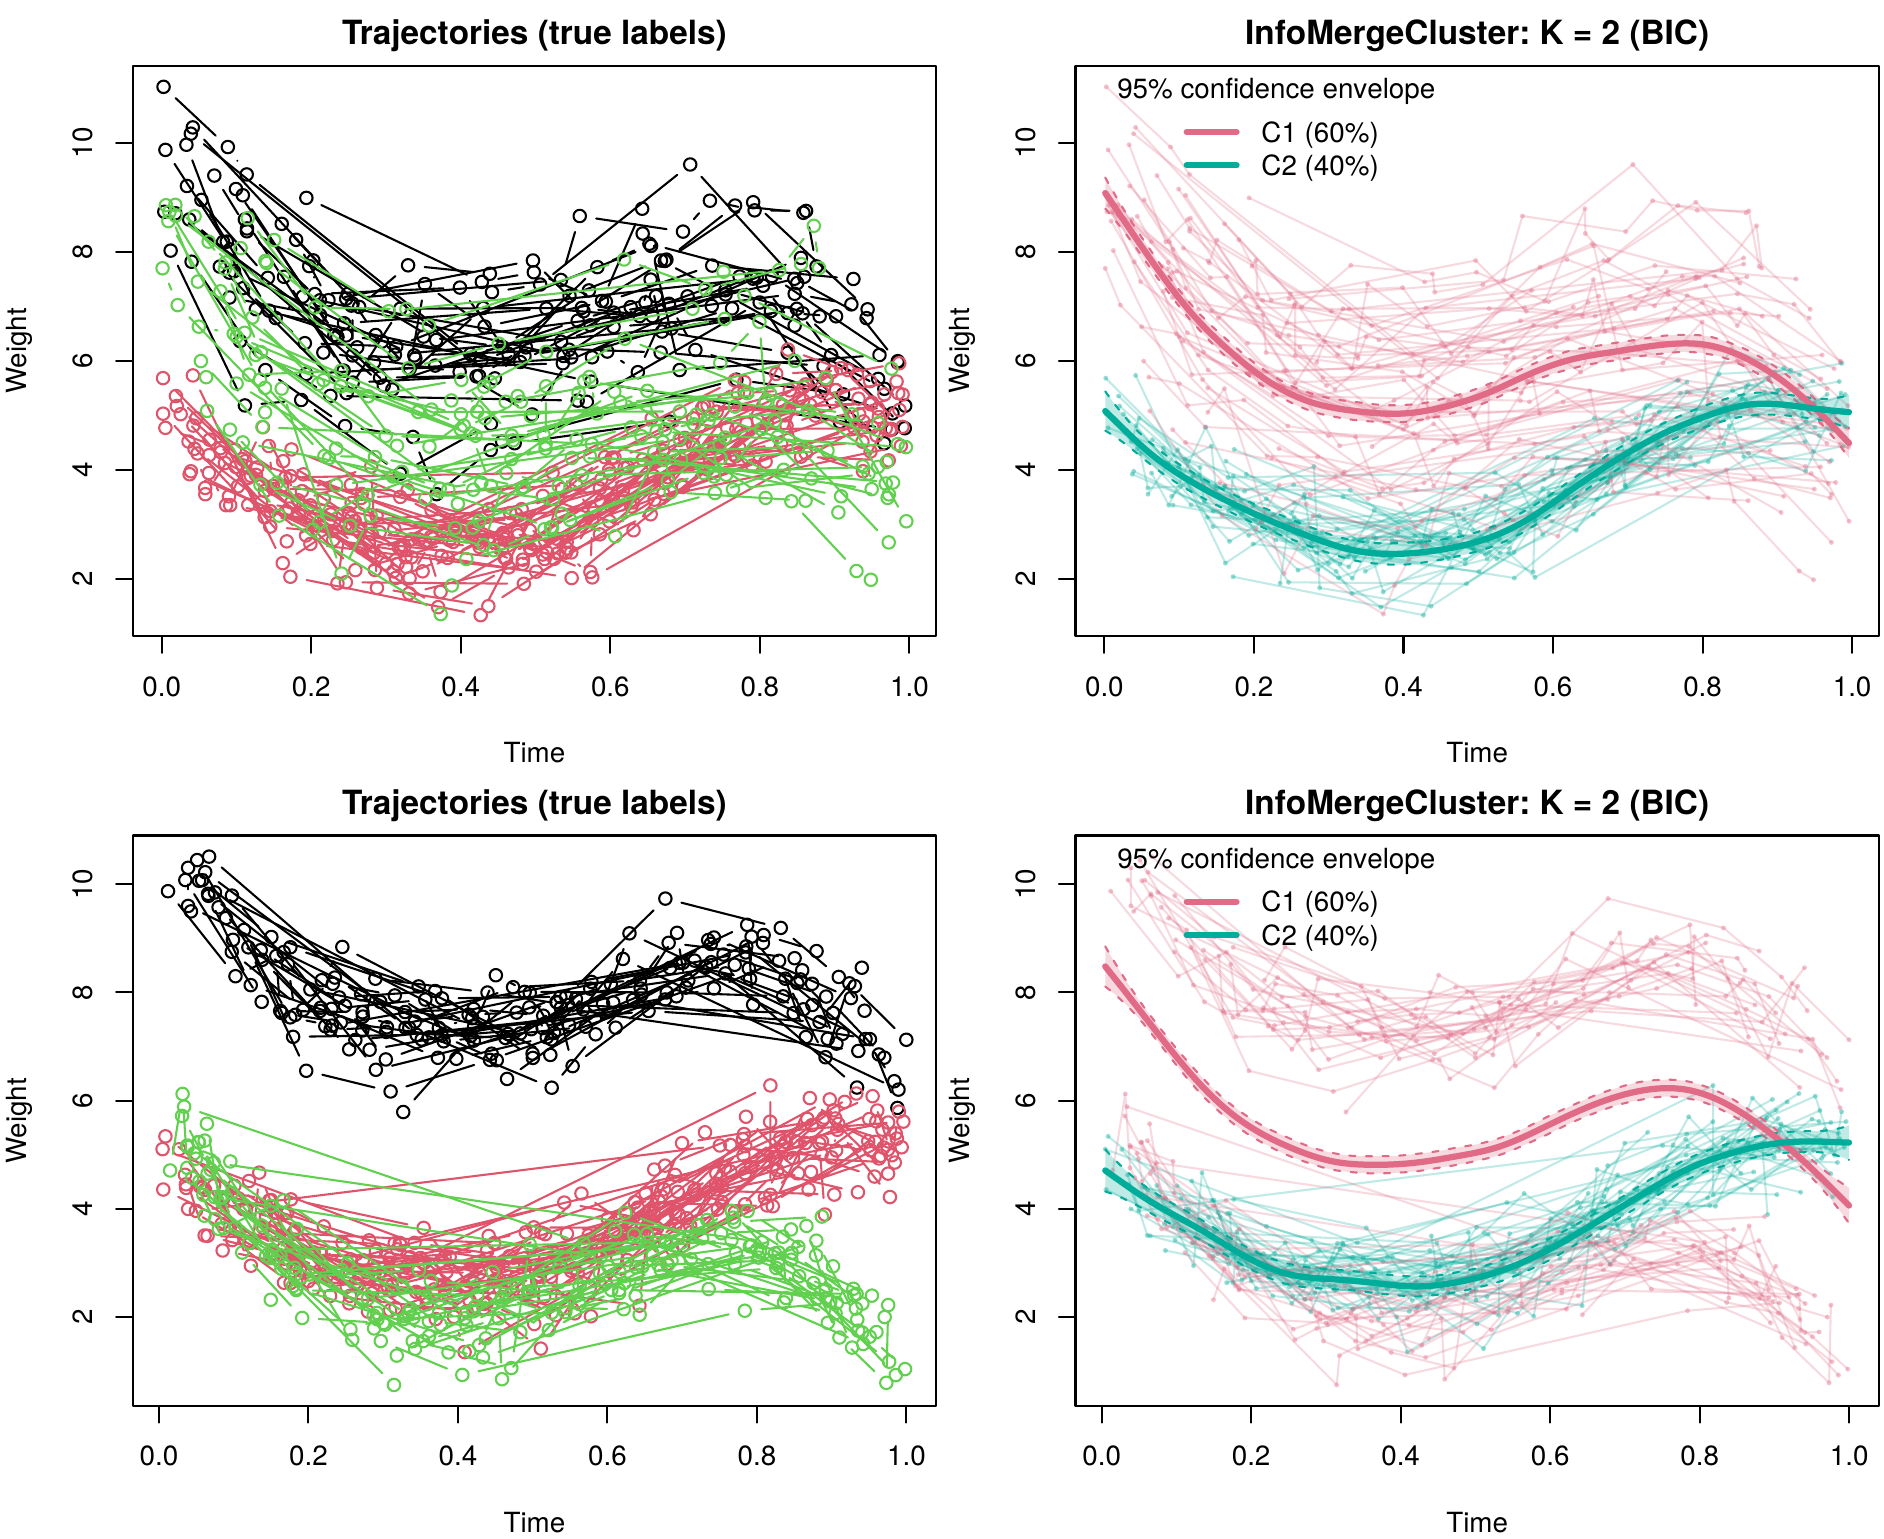
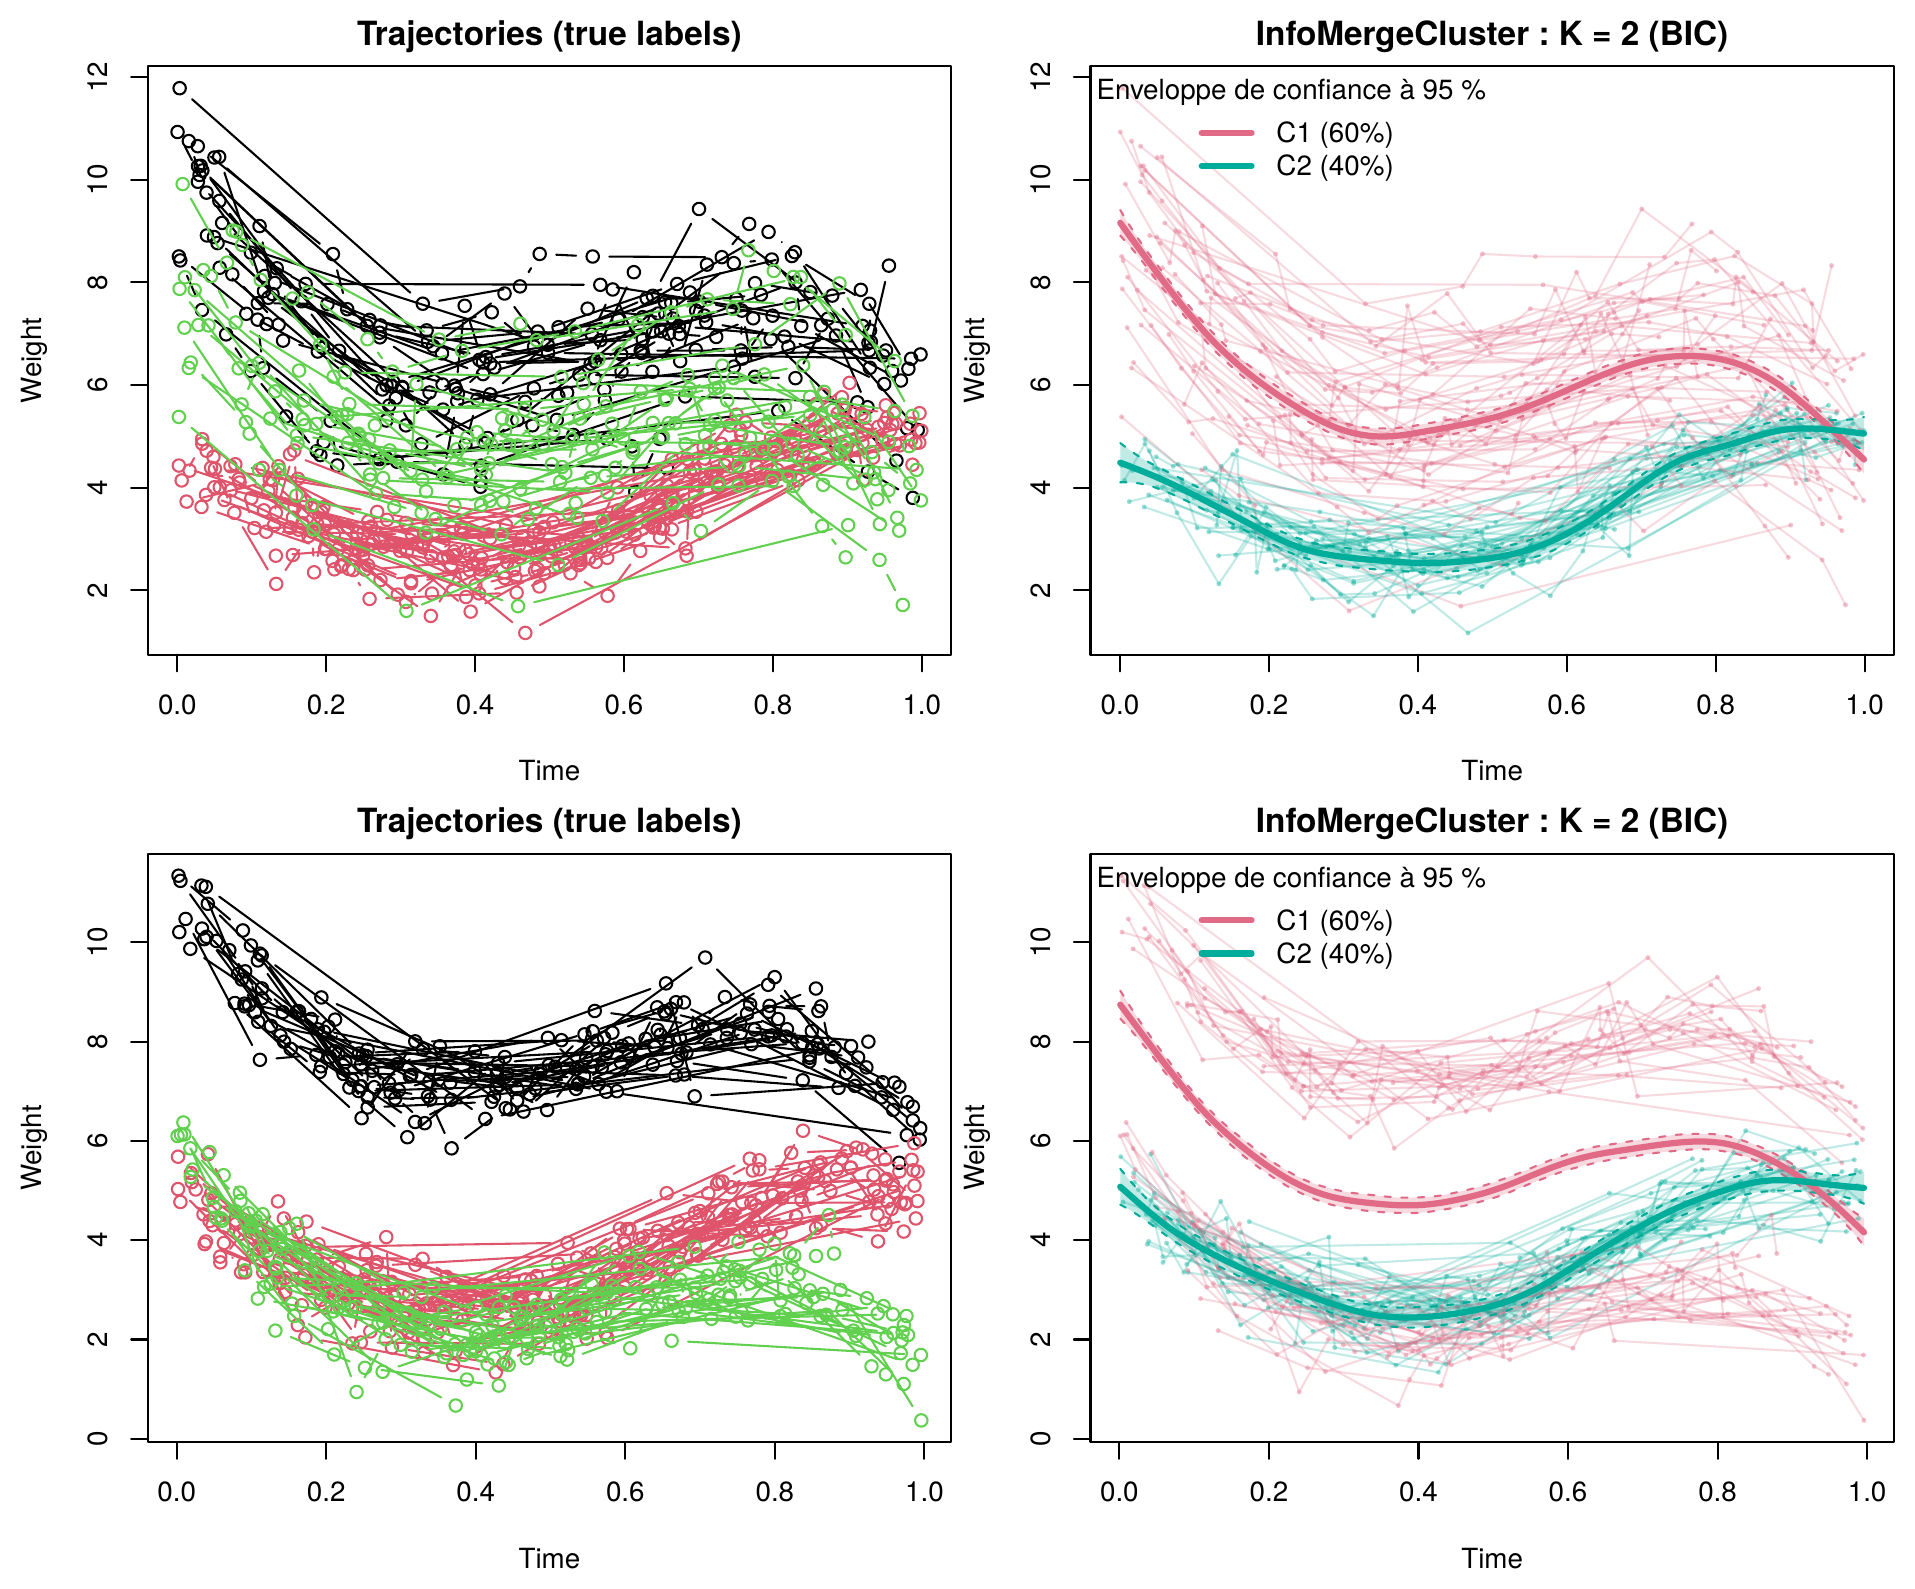
Clustering of sparsely and irregularly observed longitudinal data

diff --git a/NEWS.md b/NEWS.md
@@ -16,6 +16,11 @@
   `infomergecluster_stability()`.
 * Data generator `f.data.generation()` (scenarios 1 to 4, reference settings
   documented in its help page) and `plot.data()`.
+* `f.data.generation()`: the random intercept of each curve is
+  `U(-a, a) + N(0, s^2)` (uniform first shift, formerly normal), with the
+  parameters of each scenario stored in a table; the mean level of the curves
+  is `2 + c_k`. For a given seed, the generated data differ from those of the
+  earlier development version.
 * `infomergecluster_citation()`: BibTeX entry (Google Scholar format) or
   plain-text reference of the package; the entry is also installed as
   `CITATION.bib`.
